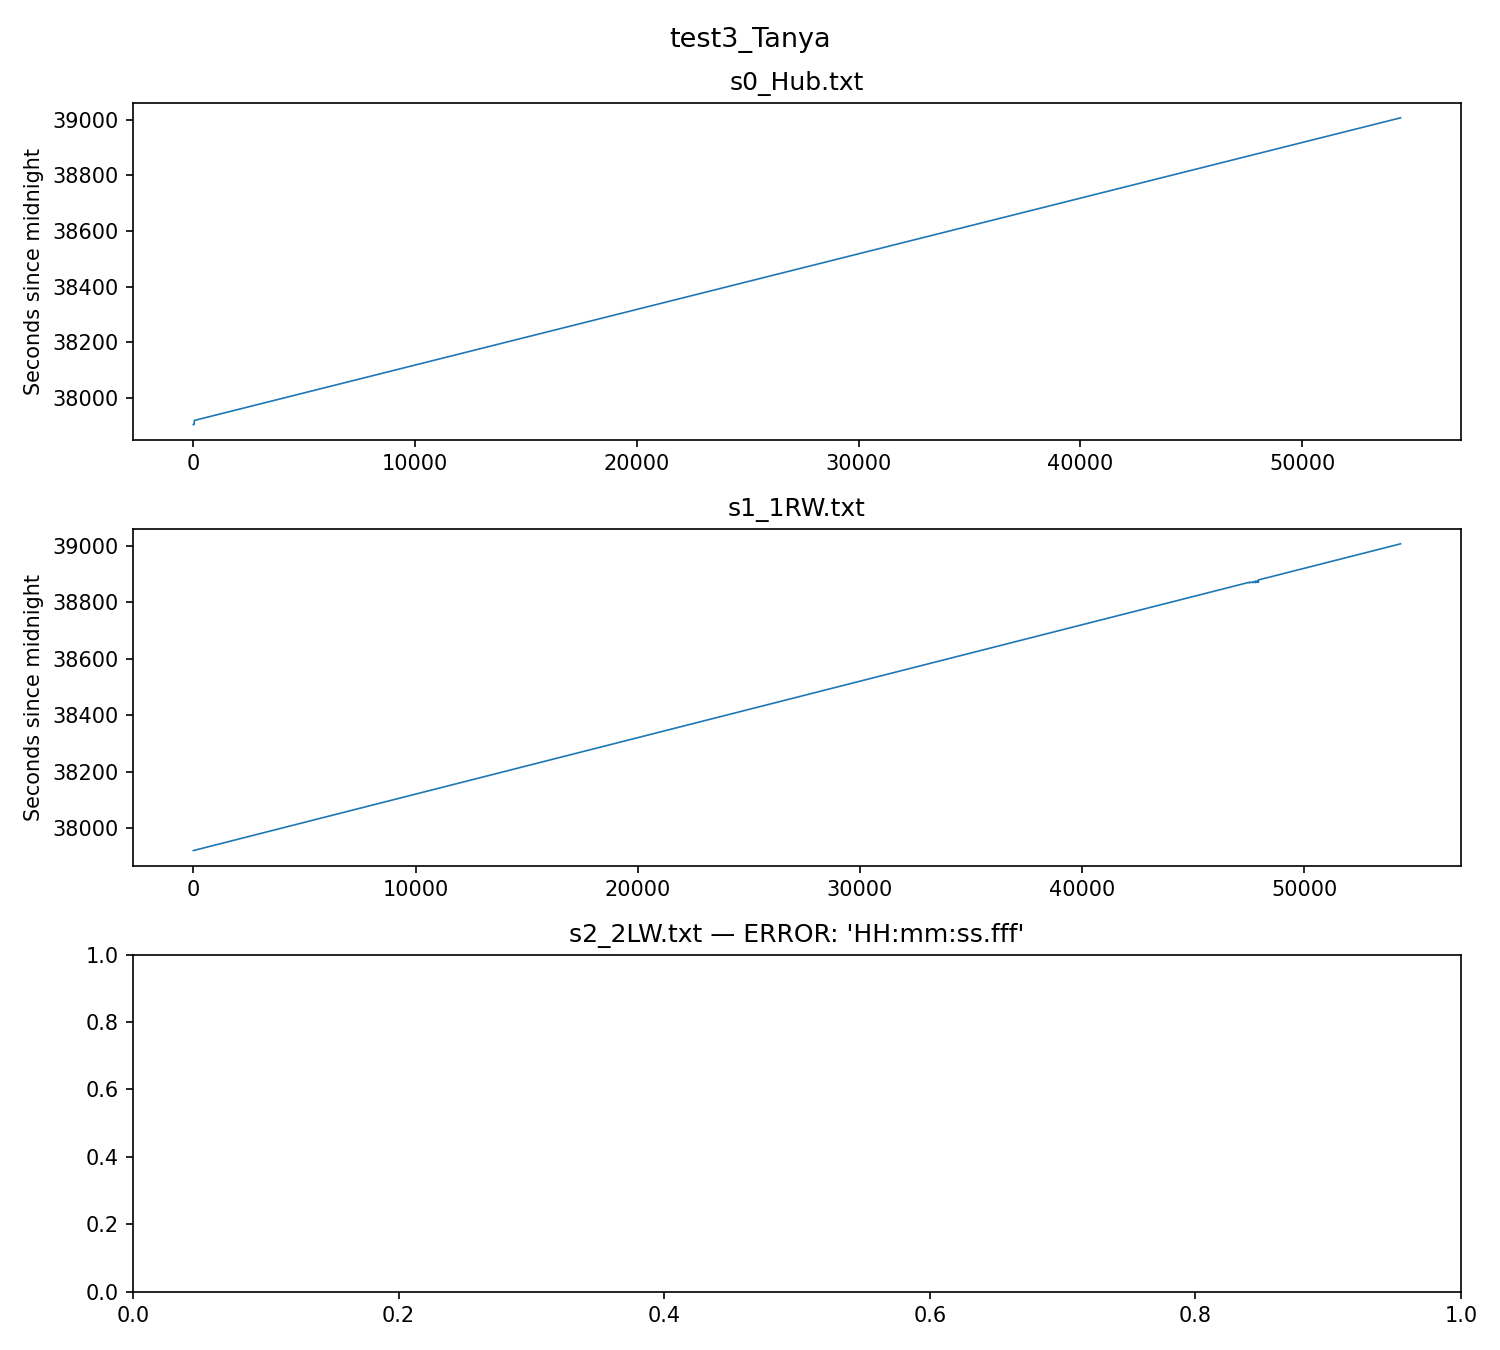
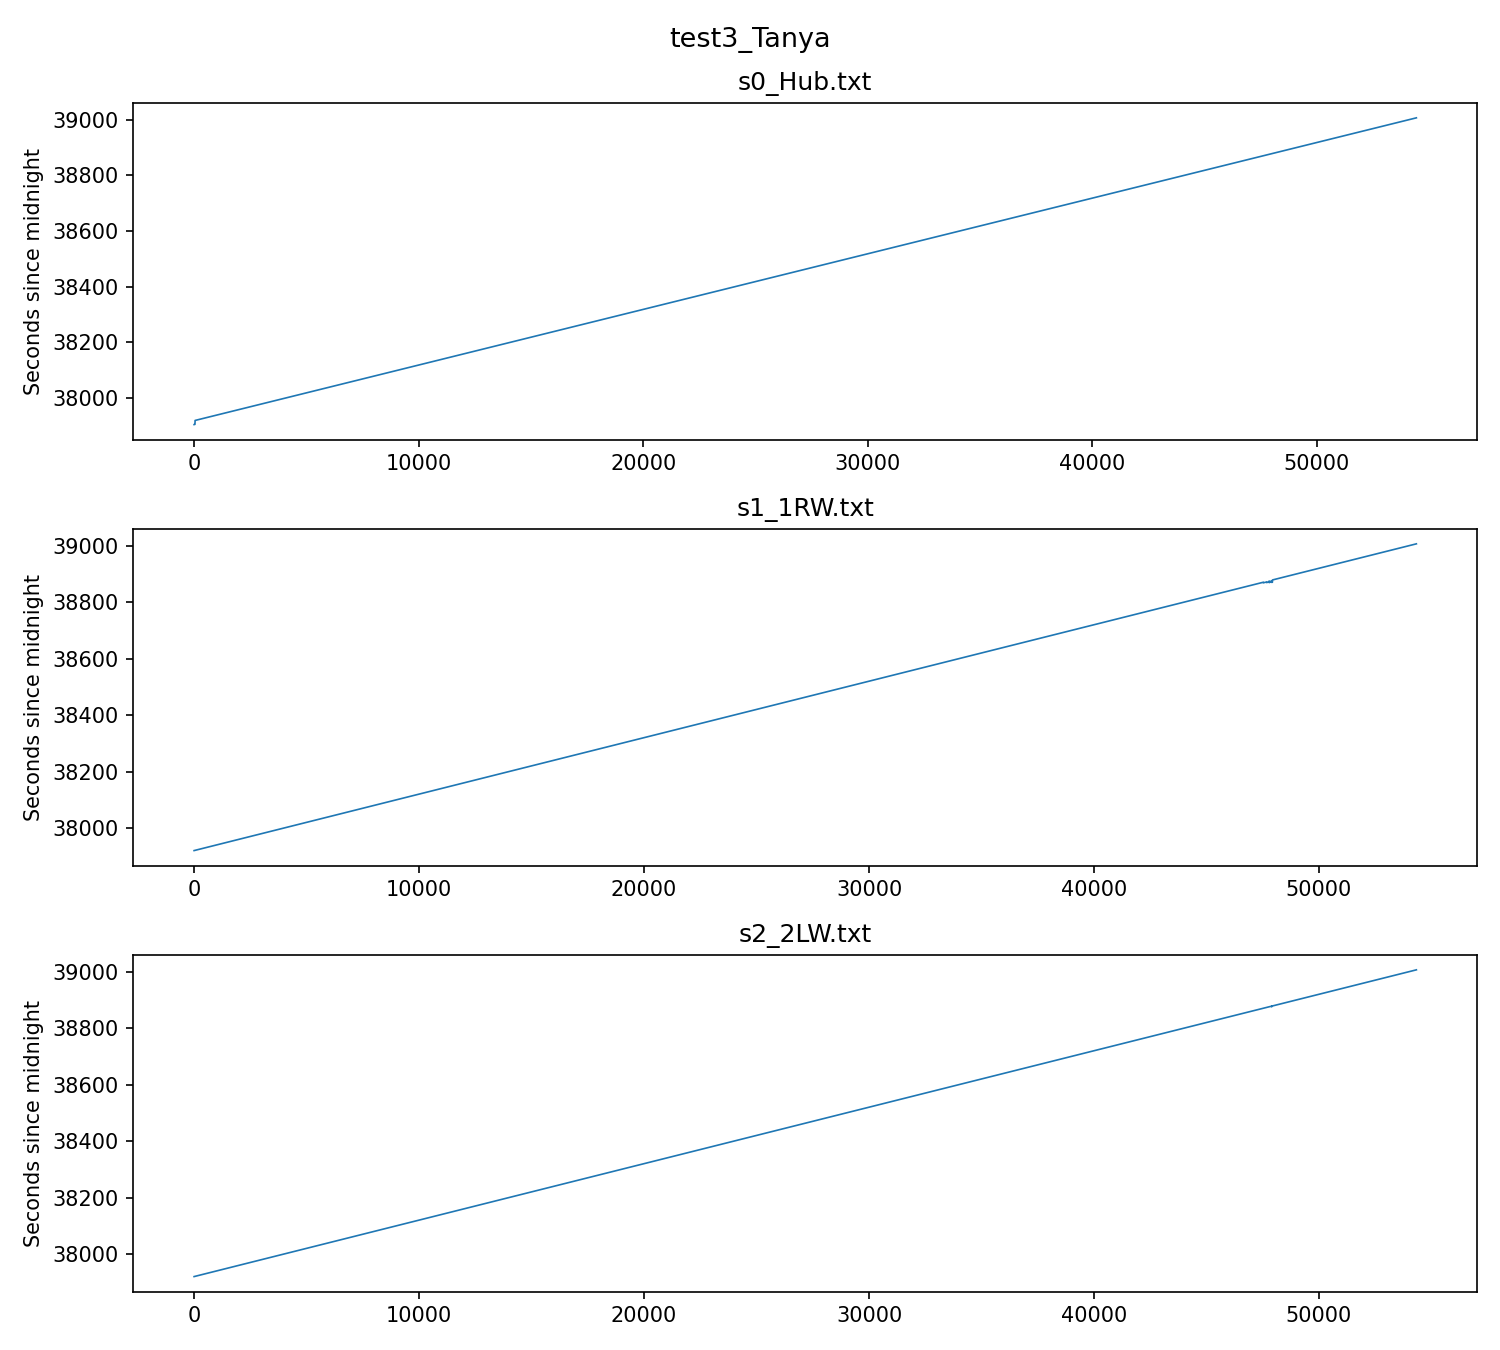
correct visualization fo the robust method, corrected some of the time-check plots

diff --git a/singleGSD_robust.py b/singleGSD_robust.py
@@ -9,44 +9,33 @@ from GSD3_test import KheirkhahanGSD
 import matplotlib.pyplot as plt
 import csv
 from datetime import time
+import matplotlib.ticker as mticker
 
 # Suppress the DtypeWarning for the walkway columns
 warnings.filterwarnings('ignore', category=pd.errors.DtypeWarning)
-DATA_PATH = r"C:\Users\orlov\intern\gait_detection\QSense_data_mixed\test8_Hendrik"
-file_name = "s2_2LW.txt"
+DATA_PATH = r"C:\Users\orlov\intern\gait_detection\QSense_data_mixed\test9_Hendrik"
+file_name = "s2_2LW.txt" #"s1_1RW.txt"
 SAMPLING_RATE = 50 
 DEBUG = True
-MIN_SEGMENT_SAMPLES = 9*SAMPLING_RATE  # requirement for the band pass filter
+MIN_SEGMENT_SAMPLES = 9*SAMPLING_RATE  # requirement for 9s window 
+PLOT = False
 
 def parse_time(t_str):
     h, m, s_ms = t_str.strip().split(':')
     s, ms = s_ms.split('.')
     return time(int(h), int(m), int(s), int(ms) * 1000)
 
-if __name__ == "__main__":
-
-    results = []
-    files = [f for f in os.listdir(DATA_PATH) if f.endswith('.txt')]
-    #files = [f for f in os.listdir(DATA_PATH) if f.endswith('.csv') and (f.startswith('W') or f.startswith('N'))]
-    
-    print(f"{'Subject':<25} | {'Acc':<6} | {'Prec':<6} | {'Rec':<6} | {'F1':<6}")
-    print("-" * 75)
-
-    
+def load_segmented(DATA_PATH, file_name) -> pd.DataFrame:
     try:
-        # 1. Load Data
-        # df = pd.read_csv(os.path.join(DATA_PATH, file_name), 
-        #                 sep='\t',  # Use whitespace as separator (adjust if needed)
-        #                 low_memory=False)
-        # #### CLIPPING THE FIST 10 SECONDS
-        # df = df[500:]
-
+        # open the file 
         with open(os.path.join(DATA_PATH, file_name), newline='') as f:
             reader = csv.DictReader(f, delimiter='\t')
             rows = list(reader)
 
+        # clip the first 10 seconds depending on the data path 
         rows = rows if "mixed" in DATA_PATH else rows[500:]
-        print("data is full") if "mixed" in DATA_PATH else print("10s clipped")
+        if DEBUG == True:
+            print("Data taken fully.") if "mixed" in DATA_PATH else print("First 10s are clipped.")
 
         clean_rows = []
         segments   = []
@@ -87,65 +76,74 @@ if __name__ == "__main__":
         # ['yyyy-MM-dd', 'HH:mm:ss.fff', 'gyrX', 'gyrY', 'gyrZ', 
         # 'accX', 'accY', 'accZ', 'magX', 'magY', 'magZ', 
         # 'Marker', 'Energy', 'Angle', 'Classification', 'Label', 'segment']
-        
+    except Exception as e:
+        print(f"{file_name[:25]:<25} | ERROR: {str(e)}")
+    
+    return df
+
+def run_gsd_on_segment(grp) : 
+    global_start_idx = grp.index[0]  # offset into the full df
+    # fing the acceleration columns 
+    acc_cols = [c for c in grp.columns if 'acc' in c]
+    if len(acc_cols) < 3:
+        print("Incorrect number of columns.")
+        print(f"{len(acc_cols)} columns found instead.")
+    # rename the columns and run the gsd on them
+    seg_imu = grp[acc_cols[:3]].copy().astype(float) * 9.81
+    seg_imu.columns = ['acc_pa', 'acc_ml', 'acc_is']
+    seg_imu.reset_index(drop=True)
+    
+    gsd = KheirkhahanGSD(cwb=False)
+    bout_result, activity_counts = gsd.detect(seg_imu, sampling_rate_hz=SAMPLING_RATE)
+
+    return bout_result, activity_counts, global_start_idx
+
+
+if __name__ == "__main__":
+
+    results = []
+    files = [f for f in os.listdir(DATA_PATH) if f.endswith('.txt')]
+    #files = [f for f in os.listdir(DATA_PATH) if f.endswith('.csv') and (f.startswith('W') or f.startswith('N'))]
+    
+    print(f"{'Subject':<25} | {'Acc':<6} | {'Prec':<6} | {'Rec':<6} | {'F1':<6}")
+    print("-" * 75)
+
+    
+    try:
+        # 1. Load Data
+        df = load_segmented(DATA_PATH, file_name)
 
         # 2. Identify and Rename Columns to Anatomical Labels
         # The package requires: acc_pa, acc_ml, acc_is
-        acc_cols = [c for c in df.columns if 'acc' in c]
-        if len(acc_cols) < 3:
-            print("Incorrect number of columns.")
-            print(f"{len(acc_cols)} columns found instead.")
-            
-            
-        # imu_df = df[acc_cols[:3]].copy()
-        # imu_df = imu_df.astype(float) * 9.81
-        # imu_df.columns = ['acc_pa', 'acc_ml', 'acc_is']
+        # acc_cols = [c for c in df.columns if 'acc' in c]
+        # if len(acc_cols) < 3:
+        #     print("Incorrect number of columns.")
+        #     print(f"{len(acc_cols)} columns found instead.")
 
         # 3. Ground Truth
         if 'test' in DATA_PATH:
             y_true = df['Label'].astype(int).to_numpy()
         else:
             y_true = np.ones(len(df))
-        #imu_df['y_true'] = y_true
 
-        if DEBUG == True:
-            print('y true is ', y_true)
         diffs = np.diff(y_true)
         diffs_pos = np.where((np.abs(diffs) == 1))
-        # correct so far 
 
         # 4. Run GSD        
-        # imu_cols = ['acc_pa', 'acc_ml', 'acc_is']
         detected_bouts = []
-        skipped_segments = 0
         y_pred = np.zeros(len(df))
-        detected_walking_all = []
         activity_counts_timeline = {}
+        skipped_seg = 0
         for segment, grp in df.groupby('segment', sort=True):
-            global_start_idx = grp.index[0]  # offset into the full df
-
+            # global_start_idx = grp.index[0]  # offset into the full df
+            # print('grp',grp.)
             if len(grp) < MIN_SEGMENT_SAMPLES:
-                if DEBUG:
-                    print(f"Segment {segment}: skipped ({len(grp)} samples < {MIN_SEGMENT_SAMPLES} min)")
-                skipped_segments += 1
+                y_pred[grp.index] = np.nan
+                skipped_seg += 1
                 continue
-            # FIX: use a local variable, do NOT overwrite imu_df
-            seg_imu = grp[acc_cols[:3]].copy().astype(float) * 9.81
-            seg_imu.columns = ['acc_pa', 'acc_ml', 'acc_is']
-            seg_imu.reset_index(drop=True)
-            
-            gsd = KheirkhahanGSD(cwb=False, visual=True, switch=diffs_pos[0])
-            bout_result, detected_walking, activity_counts = gsd.detect(seg_imu, sampling_rate_hz=SAMPLING_RATE)
-            print('detected_walking', detected_walking)
-            print('detected_walking size', len(detected_walking))
-            print()
-            print('activity_counts', activity_counts)
-            print('activity_counts size', len(activity_counts))
-            print()
-            print()
-            # dw_arr = np.asarray(detected_walking, dtype=float)
-            # g_end = global_start_idx + len(dw_arr)
-            # detected_walking_all[global_start_idx:g_end] = dw_arr
+
+            bout_result, activity_counts, global_start_idx = run_gsd_on_segment(grp)
+
             global_start_sec = global_start_idx // SAMPLING_RATE
             for i, val in enumerate(activity_counts):
                 activity_counts_timeline[global_start_sec + i] = val
@@ -157,68 +155,78 @@ if __name__ == "__main__":
                     global_bout_end = int(bout_row['end']) + global_start_idx
                     detected_bouts.append((global_bout_start, global_bout_end))
                     y_pred[global_bout_start:global_bout_end] = 1
-            # if result is None:
-            #     continue
-            # metrics, output_name = result
-        if DEBUG: 
-            print(f"Total detected bouts across all segments: {len(detected_bouts)}")
-        
+       
         if hasattr(bout_result, 'gs_list_') and DEBUG:
-            print(f"detected_bouts type: {type(detected_bouts)}")
-            # print(f"detected_bouts empty: {detected_bouts.empty}")
+            print(f"Total detected bouts across all segments: {len(detected_bouts)}")
+            print(f"Skipped {skipped_seg} segments.")
             if detected_bouts != []:
                 print(f"Detected bouts:\n{detected_bouts}")
                 print(f'True switch times:\n{diffs_pos}')
             else:
                 print("No walking bouts detected!")
         
-        # Plot
-        # fig, ax = plt.subplots(figsize=(14, 4))
-        # x = np.arange(len(df))
+        # Parse timestamps from df into timedeltas
+        time_series = pd.to_timedelta(df['HH:mm:ss.fff'].str.strip())
+        # Convert to total seconds (float) for plotting
+        time_per_second_sec = time_series.iloc[::SAMPLING_RATE].reset_index(drop=True).dt.total_seconds()
 
-        # # ax.plot(x, y_true,               label='Ground truth',      alpha=0.6, linewidth=1)
-        # # ax.plot(x, detected_walking_all, label='Detected walking',  alpha=0.8, linewidth=1)
-        # ax.plot(x, y_pred,               label='GSD bout mask',     alpha=0.6, linewidth=1, linestyle='--')
+        total_seconds = len(time_per_second_sec)
+        ac_plot = np.full(total_seconds, np.nan)
+        for sec_idx, val in activity_counts_timeline.items():
+            if sec_idx < total_seconds:
+                ac_plot[sec_idx] = val
 
-        # for sw in diffs_pos[0]:
-        #     ax.axvline(x=sw, color='red', linewidth=0.8, linestyle=':', alpha=0.7)
-        # ax.axvline(x=sw, color='red', linewidth=0.8, linestyle=':', alpha=0.7, label='Switch points')  # label once
+        all_segment_first_rows = df.groupby('segment').nth(0).index
+        jump_row_indices = all_segment_first_rows[1:]
+        jump_times_sec = [time_series.iloc[idx].total_seconds() for idx in jump_row_indices]
 
-        # ax.set_xlabel('Sample index')
-        # ax.set_ylabel('Walking (1) / Not walking (0)')
-        # ax.set_title(f'{file_name}')
-        # ax.legend(loc='upper right')
-        # ax.set_ylim(-0.1, 1.4)
-        # plt.tight_layout()
 
-        # 8. Plot activity counts with gaps
-        # total_seconds = len(df) // SAMPLING_RATE
-        # time_axis = np.arange(total_seconds)
-        # ac_plot = np.full(total_seconds, np.nan)  # nan = gap, won't be plotted
+        time_all_sec = time_series.dt.total_seconds() # seconds from midnight, accurate to 2 decimals
+        if PLOT == True: 
+            fig2, (ax1, ax2) = plt.subplots(2, 1, figsize=(12, 6), sharex=True)
 
-        # for sec_idx, val in activity_counts_timeline.items():
-        #     if sec_idx < total_seconds:
-        #         ac_plot[sec_idx] = val
+            # ── Top: y_pred and y_true ────────────────────────────────────────────────
+            ax1.fill_between(time_all_sec, 0, 1, where=(y_true == 1),
+                            alpha=0.3, color='green', label='Ground truth (walking)')
+            ax1.plot(time_all_sec, y_pred, label='y_pred (GSD)', alpha=0.8, 
+                    linewidth=1, color='steelblue')
 
-        # fig2, ax2 = plt.subplots(figsize=(14, 4))
-        # ax2.plot(time_axis, ac_plot, label='Activity count', linewidth=1)
+            for i, jt in enumerate(jump_times_sec):
+                ax1.axvline(x=jt, color='orange', linewidth=1.0, linestyle='--', alpha=0.8,
+                            label='Time gap' if i == 0 else None)
 
-        # for sw in diffs_pos[0]:
-        #     ax2.axvline(x=sw / SAMPLING_RATE, color='red', linewidth=0.8, 
-        #                 linestyle=':', alpha=0.7)
-        # ax2.axvline(x=diffs_pos[0][-1] / SAMPLING_RATE, color='red', linewidth=0.8,
-        #             linestyle=':', alpha=0.7, label='Switch points')
+            ax1.set_ylabel('Walking (1) / Not (0)')
+            ax1.set_title(f'{file_name}')
+            ax1.legend(loc='upper left')
+            ax1.set_ylim(-0.1, 1.4)
 
-        # ax2.set_xlabel('Time (s)')
-        # ax2.set_ylabel('Activity count')
-        # ax2.set_title(f'Activity counts – {file_name}')
-        # ax2.legend(loc='upper right')
-        # plt.tight_layout()
+            # ── Bottom: activity counts ───────────────────────────────────────────────
+            ax2.fill_between(time_all_sec, 0, 1, where=(y_true == 1),
+                            alpha=0.2, color='green', transform=ax2.get_xaxis_transform(),
+                            label='Ground truth (walking)')
+            ax2.plot(time_per_second_sec, ac_plot, label='Activity count', 
+                    linewidth=1, color='steelblue')
+
+            for i, jt in enumerate(jump_times_sec):
+                ax2.axvline(x=jt, color='orange', linewidth=1.0, linestyle='--', alpha=0.8,
+                            label='Time gap' if i == 0 else None)
+
+            ax2.set_xlabel('Time (s)')
+            ax2.set_ylabel('Activity count')
+            ax2.legend(loc='upper left')
+
+            # Format x-axis as HH:MM:SS
+            ax2.xaxis.set_major_formatter(mticker.FuncFormatter(
+                lambda x, _: f"{int(x//3600):02d}:{int((x%3600)//60):02d}:{int(x%60):02d}"
+            ))
+            fig2.autofmt_xdate()
+            plt.tight_layout()
+
+
+
 
         if DEBUG == True:
             print(f"\nPrediction shape: {y_pred.shape}")
-            print(f"Prediction sum (detected walking samples): {y_pred.sum()}")
-            print(f"Prediction percentage walking: {y_pred.sum() / len(y_pred) * 100:.2f}%")
             
             print(f"--- Comparison ---")
             print(f"True Positives (both predict & true walking): {np.sum((y_pred == 1) & (y_true == 1))}")
@@ -227,10 +235,11 @@ if __name__ == "__main__":
             print(f"True Negatives (both predict & true not walking): {np.sum((y_pred == 0) & (y_true == 0))}")
         
         # 6. Calculate Metrics
-        acc  = accuracy_score(y_true, y_pred)
-        prec = precision_score(y_true, y_pred, zero_division=0)
-        rec  = recall_score(y_true, y_pred, zero_division=0)
-        f1   = f1_score(y_true, y_pred, zero_division=0)
+        valid_mask = ~np.isnan(y_pred)
+        acc  = accuracy_score(y_true[valid_mask], y_pred[valid_mask])
+        prec = precision_score(y_true[valid_mask], y_pred[valid_mask], zero_division=0)
+        rec  = recall_score(y_true[valid_mask], y_pred[valid_mask], zero_division=0)
+        f1   = f1_score(y_true[valid_mask], y_pred[valid_mask], zero_division=0)
 
         results.append({
             'Subject': file_name,

diff --git a/time_check.py b/time_check.py
@@ -5,9 +5,9 @@ from datetime import time
 
 
 #DATA_PATH = r"C:\Users\orlov\intern\gait_detection\QSense_data_edge"
-DATA_ROOT = r"C:\Users\orlov\intern\gait_detection\QSense_data"
+DATA_ROOT = r"C:\Users\orlov\intern\gait_detection\QSense_data_mixed"
 
-SAVE_PATH = r"C:\Users\orlov\intern\gait_detection\faulty_data_plots\data"
+SAVE_PATH = r"C:\Users\orlov\intern\gait_detection\faulty_data_plots\mixed"
 
 FILES = [
     "s0_Hub.txt",

diff --git a/old_scripts/converter.py b/old_scripts/converter.py
@@ -1,6 +1,6 @@
 import csv
 
-file_path = r"C:\Users\orlov\intern\gait_detection\QSense_data_mixed\test1_Tanya\s1_1RW.txt"
+file_path = r"C:\Users\orlov\intern\gait_detection\QSense_data_mixed\test3_Tanya\s2_2LW.txt"
 
 with open(file_path, newline='') as infile:
     reader = csv.reader(infile, delimiter=',')

diff --git a/GSD3_test.py b/GSD3_test.py
@@ -226,4 +226,4 @@ class KheirkhahanGSD:
 
         self.gs_list_ = gs
 
-        return self, detected_walking, activity_counts
+        return self, activity_counts
